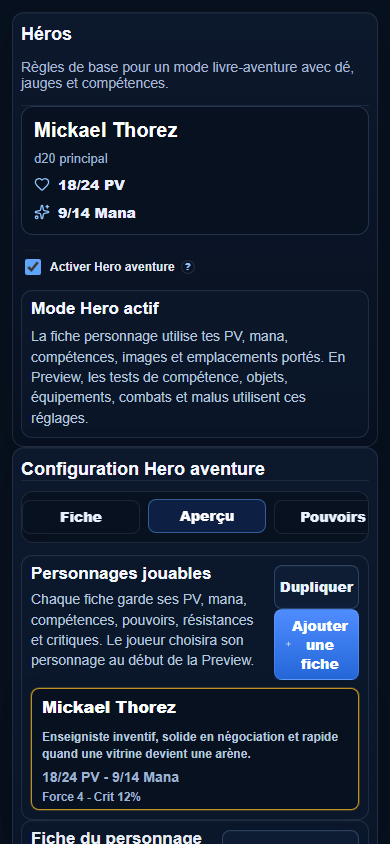
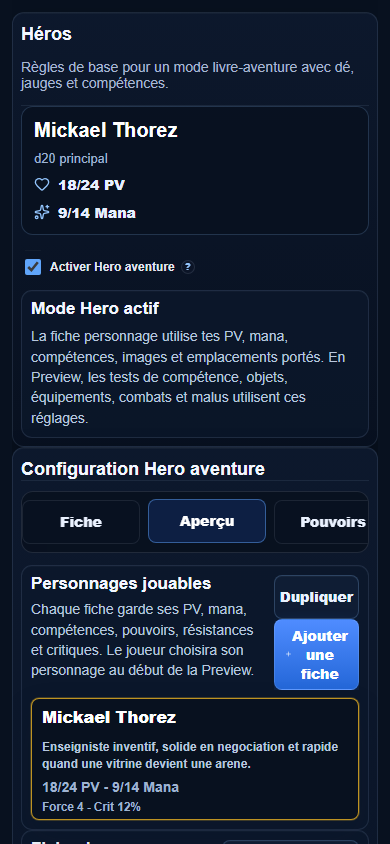
Improve hero and combat editor responsive QA

Changed region(s): [[0.0615, 0.5853, 0.9231, 1.0], [0.7692, 0.5853, 0.9538, 0.6469]]

diff --git a/src/styles/04-domains/project.css b/src/styles/04-domains/project.css
@@ -2935,3 +2935,96 @@
 .ai-chronology-row span{color:#bfdbfe;font-weight:800;text-align:center}
 
 @media (max-width: 980px){.ai-narrative-columns{grid-template-columns:1fr}}
+
+@media (max-width: 760px), (max-width: 900px) and (orientation: landscape){
+  .hero-editor-layout,
+  .combat-editor-layout{
+    grid-template-columns:minmax(0,1fr);
+    width:100%;
+    max-width:100%;
+    overflow-x:clip;
+  }
+
+  .hero-editor-summary,
+  .hero-editor-main,
+  .combat-editor-summary,
+  .combat-editor-main,
+  .hero-roster-panel,
+  .hero-editor-main .subpanel,
+  .combat-editor-main .subpanel{
+    min-width:0;
+    max-width:100%;
+    box-sizing:border-box;
+  }
+
+  .hero-internal-tabs,
+  .combat-editor-tabs{
+    max-width:100%;
+    overflow-x:auto;
+    -webkit-overflow-scrolling:touch;
+  }
+
+  .hero-editor-main .hero-internal-tabs button,
+  .combat-editor-main .combat-editor-tabs button,
+  .combat-editor-main .combat-mode-switch button,
+  .hero-editor-main .hero-skill-delete,
+  .combat-editor-main .secondary-action.compact,
+  .hero-editor-main .secondary-action.compact{
+    min-height:44px!important;
+    line-height:1.15;
+    white-space:normal;
+    overflow-wrap:anywhere;
+  }
+
+  .hero-editor-main .hero-skill-delete{
+    display:inline-flex;
+    align-items:center;
+    justify-content:center;
+  }
+
+  .hero-editor-main .button.like,
+  .hero-editor-main button,
+  .combat-editor-main .button.like,
+  .combat-editor-main button,
+  .combat-editor-summary button{
+    max-width:100%;
+  }
+
+  .hero-power-editor,
+  .hero-skill-editor,
+  .hero-equipment-slot-editor-card,
+  .hero-character-page--editor,
+  .combat-config-card,
+  .combat-enemy-section,
+  .combat-hero-skill-row{
+    width:100%;
+    max-width:100%;
+    box-sizing:border-box;
+  }
+}
+
+@media (max-width: 900px) and (orientation: landscape){
+  .hero-editor-main .hero-internal-tabs{
+    display:flex;
+    flex-wrap:nowrap;
+  }
+
+  .hero-editor-main .hero-internal-tabs button{
+    flex:0 0 auto;
+  }
+
+  .hero-roster-panel .toolbar,
+  .hero-editor-main .subpanel-head .toolbar{
+    display:grid;
+    grid-template-columns:minmax(0,1fr);
+    width:100%;
+  }
+
+  .hero-roster-panel .toolbar button,
+  .hero-editor-main .subpanel-head button,
+  .hero-editor-main .button.like,
+  .hero-editor-main .secondary-action.full{
+    width:100%;
+    justify-content:center;
+  }
+}
